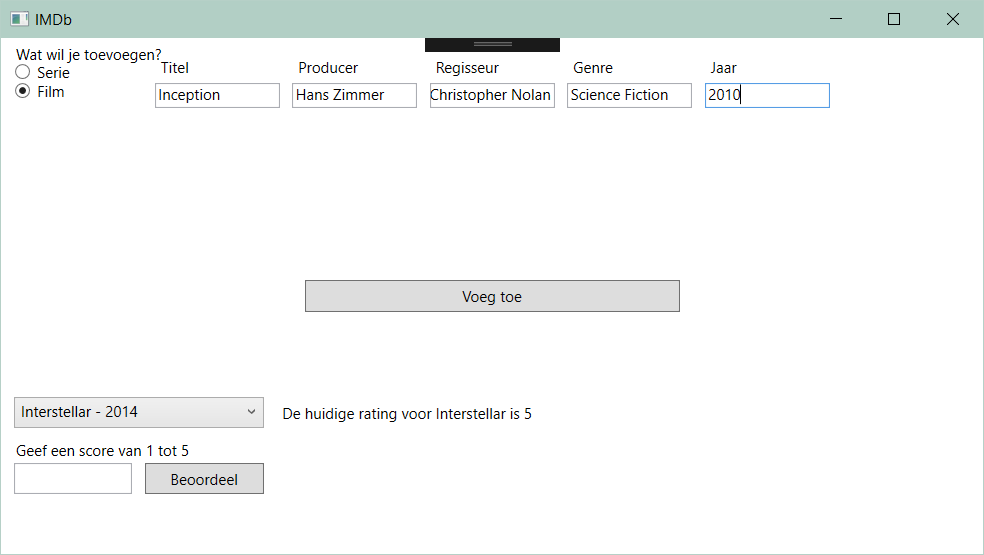
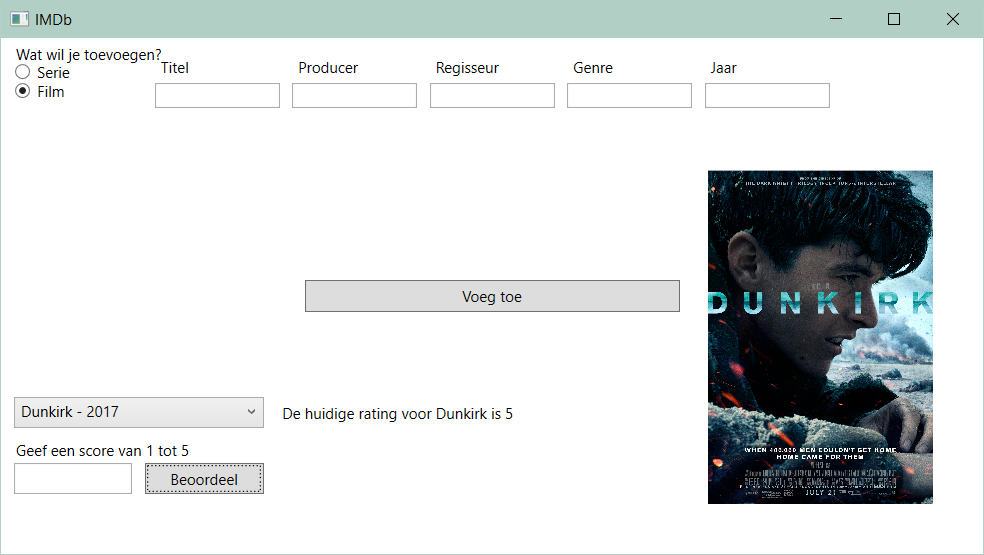
Voeg affiche toe aan WPF-versie oefening 5.3

diff --git a/vakken/oop/les5wpf.md b/vakken/oop/les5wpf.md
@@ -247,160 +247,183 @@ class Bankrekening
             <TextBox Height="25px" Width="95px" Name="textBoxRating"></TextBox>
             <Button Width="95px" Height="25px" Margin="10,0,0,0" Name="buttonVoegRatingToe" Click="ButtonVoegRatingToe_Click">Beoordeel</Button>
         </WrapPanel>
+        <Image Height="320" Width="180" HorizontalAlignment="Right" VerticalAlignment="Bottom" Margin="0,0,40,40" Name="affiche"></Image>
     </Grid>
 </Window>
+
 ```
 ### Klasse MainWindow (MainWindow.xaml.cs)
 ```csharp
 public partial class MainWindow : Window
+{
+    private string rating = "De huidige rating voor {0} is {1}";
+    private List<Film> films;
+    private List<Serie> series;
+    public MainWindow()
     {
-        private List<Film> films;
-        private List<Serie> series;
-        public MainWindow()
-        {
-            InitializeComponent();
-            films = new List<Film>();
-            series = new List<Serie>();
-        }
+        InitializeComponent();
+        films = new List<Film>();
+        series = new List<Serie>();
+    }
 
-        private void CheckedChanged(object sender, RoutedEventArgs e)
+    private void CheckedChanged(object sender, RoutedEventArgs e)
+    {
+        if ((bool)serie.IsChecked)
         {
-            if ((bool)serie.IsChecked)
-            {
-                PanelSerie.Visibility = Visibility.Visible;
-                PanelFilm.Visibility = Visibility.Hidden;
-                SeriesUpdaten();
-            }
-            else
-            {
-                PanelSerie.Visibility = Visibility.Hidden;
-                PanelFilm.Visibility = Visibility.Visible;
-                FilmsUpdaten();
-            }
+            PanelSerie.Visibility = Visibility.Visible;
+            PanelFilm.Visibility = Visibility.Hidden;
+            SeriesUpdaten();
         }
+        else
+        {
+            PanelSerie.Visibility = Visibility.Hidden;
+            PanelFilm.Visibility = Visibility.Visible;
+            FilmsUpdaten();
+        }
+    }
 
-        private void VoegToe(object sender, RoutedEventArgs e)
+    private void VoegToe(object sender, RoutedEventArgs e)
+    {
+        if ((bool)film.IsChecked && IsFilled())
         {
-            if ((bool)film.IsChecked && IsFilled())
-            {
-                films.Add(new Film(textBoxFilmTitel.Text, textBoxFilmProducer.Text, textBoxFilmRegisseur.Text, textBoxFilmGenre.Text, int.Parse(textBoxFilmJaar.Text)));
-                EmptyTextBoxes();
-                FilmsUpdaten();
-            }
-            else if (IsFilled())
-            {
-                series.Add(new Serie(textBoxSerieTitel.Text, int.Parse(textBoxSerieSeizoenen.Text)));
-                EmptyTextBoxes();
-                SeriesUpdaten();
-            }
-            else
-                MessageBox.Show("Niet alle velden zijn gevuld", "Opgelet!", MessageBoxButton.OK);
+            films.Add(new Film(textBoxFilmTitel.Text, textBoxFilmProducer.Text, textBoxFilmRegisseur.Text, textBoxFilmGenre.Text, int.Parse(textBoxFilmJaar.Text)));
+            EmptyTextBoxes();
+            FilmsUpdaten();
         }
+        else if (IsFilled())
+        {
+            series.Add(new Serie(textBoxSerieTitel.Text, int.Parse(textBoxSerieSeizoenen.Text)));
+            EmptyTextBoxes();
+            SeriesUpdaten();
+        }
+        else
+            MessageBox.Show("Niet alle velden zijn gevuld", "Opgelet!", MessageBoxButton.OK);
+    }
 
-        private bool IsFilled()
-        {
-            if ((bool)film.IsChecked)
-                return textBoxFilmGenre.Text.Length != 0 && textBoxFilmJaar.Text.Length != 0 && textBoxFilmProducer.Text.Length != 0 && textBoxFilmRegisseur.Text.Length != 0 && textBoxFilmTitel.Text.Length != 0;
-            else
-                return textBoxSerieSeizoenen.Text.Length != 0 && textBoxSerieTitel.Text.Length != 0;
-        }
-        private void EmptyTextBoxes()
-        {
-            if (PanelSerie.IsVisible)
-                foreach (WrapPanel wrapPanel in PanelSerie.Children.OfType<WrapPanel>())
-                {
-                    foreach (TextBox textBox in wrapPanel.Children.OfType<TextBox>())
-                        textBox.Clear();
-                }
-            else
-                foreach (WrapPanel wrapPanel in PanelFilm.Children.OfType<WrapPanel>())
-                {
-                    foreach (TextBox textBox in wrapPanel.Children.OfType<TextBox>())
-                        textBox.Clear();
-                }
-        }
-        private void SeriesUpdaten()
-        {
-            comboBoxKeuze.ItemsSource = null;
-            comboBoxKeuze.ItemsSource = series;
-        }
-        private void FilmsUpdaten()
-        {
-            comboBoxKeuze.ItemsSource = null;
-            comboBoxKeuze.ItemsSource = films;
-        }
+    private bool IsFilled()
+    {
+        if ((bool)film.IsChecked)
+            return textBoxFilmGenre.Text.Length != 0 && textBoxFilmJaar.Text.Length != 0 && textBoxFilmProducer.Text.Length != 0 && textBoxFilmRegisseur.Text.Length != 0 && textBoxFilmTitel.Text.Length != 0;
+        else
+            return textBoxSerieSeizoenen.Text.Length != 0 && textBoxSerieTitel.Text.Length != 0;
+    }
+    private void EmptyTextBoxes()
+    {
+        if (PanelSerie.IsVisible)
+            foreach (WrapPanel wrapPanel in PanelSerie.Children.OfType<WrapPanel>())
+            {
+                foreach (TextBox textBox in wrapPanel.Children.OfType<TextBox>())
+                    textBox.Clear();
+            }
+        else
+            foreach (WrapPanel wrapPanel in PanelFilm.Children.OfType<WrapPanel>())
+            {
+                foreach (TextBox textBox in wrapPanel.Children.OfType<TextBox>())
+                    textBox.Clear();
+            }
+    }
+    private void SeriesUpdaten()
+    {
+        comboBoxKeuze.ItemsSource = null;
+        comboBoxKeuze.ItemsSource = series;
+    }
+    private void FilmsUpdaten()
+    {
+        comboBoxKeuze.ItemsSource = null;
+        comboBoxKeuze.ItemsSource = films;
+    }
 
-        private void UpdateFilmRating()
+    private void UpdateFilmRating()
+    {
+        Film keuze = (Film)comboBoxKeuze.SelectedItem;
+        try
         {
-            Film keuze = (Film)comboBoxKeuze.SelectedItem;
+            labelRating.Content = string.Format(rating, keuze.Titel, keuze.Rating);
+            ChangeRatingVisibility(Visibility.Visible);
             try
             {
-                labelRating.Content = $"De huidige rating voor {keuze.Titel} is {keuze.Rating}";
-                ChangeRatingVisibility(Visibility.Visible);
+                string result;
+                using (WebClient client = new WebClient())
+                {
+                    result = client.DownloadString("https://sg.media-imdb.com/suggests/" + keuze.Titel.Substring(0, 1).ToLower() + "/" + keuze.Titel + ".json");
+                }
+                result = result.Substring(result.IndexOf("{"), result.Length - result.IndexOf("{") - 1);
+
+                dynamic search = JsonConvert.DeserializeObject(result);
+                string url = search.d[0].i[0];
+                affiche.Source = new BitmapImage(new Uri(url));
             }
-            catch (Exception)
+            catch (System.InvalidOperationException e)
             {
-                ChangeRatingVisibility(Visibility.Hidden);
+                labelRating.Content += "      |      Geen afbeelding gevonden :(";
+            }
+            catch (Exception e)
+            {
+                labelRating.Content += "      |      Er is iets fout gegaan tijdens het ophalen van de afbeelding.";
             }
         }
+        catch (Exception)
+        {
+            ChangeRatingVisibility(Visibility.Hidden);
+        }
+    }
 
-        private void UpdateSerieRating()
+    private void UpdateSerieRating()
+    {
+        Serie keuze = (Serie)comboBoxKeuze.SelectedItem;
+        try
+        {
+            labelRating.Content = string.Format(rating, keuze.Titel, keuze.Rating);
+            ChangeRatingVisibility(Visibility.Visible);
+        }
+        catch (Exception)
+        {
+            ChangeRatingVisibility(Visibility.Hidden);
+        }
+    }
+    /// <summary>
+    /// Verander de zichtbaarheid van alle controls die te maken hebben met het toevoegen van een Rating.
+    /// </summary>
+    /// <param name="visibility">Visibility.Visible voor zichtbaar, Visibility.Hidden voor onzichtbaar</param>
+    private void ChangeRatingVisibility(Visibility visibility)
+    {
+        labelRating.Visibility = visibility;
+        labelNieuweRating.Visibility = visibility;
+        buttonVoegRatingToe.Visibility = visibility;
+        textBoxRating.Visibility = visibility;
+        panelRating.Visibility = visibility;
+    }
+
+    private void ComboBoxKeuze_SelectionChanged(object sender, SelectionChangedEventArgs e)
+    {
+        if ((bool)serie.IsChecked)
+            UpdateSerieRating();
+        else
+            UpdateFilmRating();
+    }
+
+    private void ButtonVoegRatingToe_Click(object sender, RoutedEventArgs e)
+    {
+        if ((bool)film.IsChecked)
+        {
+            Film keuze = (Film)comboBoxKeuze.SelectedItem;
+            keuze.VoegRatingToe(double.Parse(textBoxRating.Text));
+            textBoxRating.Clear();
+            labelRating.Content = $"De huidige rating voor {keuze.Titel} is {keuze.Rating}";
+        }
+        else
         {
             Serie keuze = (Serie)comboBoxKeuze.SelectedItem;
             try
             {
-                labelRating.Content = $"De huidige rating voor {keuze.Titel} is {keuze.Rating}";
-                ChangeRatingVisibility(Visibility.Visible);
-            }
-            catch (Exception)
-            {
-                ChangeRatingVisibility(Visibility.Hidden);
-            }
-        }
-        /// <summary>
-        /// Verander de zichtbaarheid van alle controls die te maken hebben met het toevoegen van een Rating.
-        /// </summary>
-        /// <param name="visibility">Visibility.Visible voor zichtbaar, Visibility.Hidden voor onzichtbaar</param>
-        private void ChangeRatingVisibility(Visibility visibility)
-        {
-            labelRating.Visibility = visibility;
-            labelNieuweRating.Visibility = visibility;
-            buttonVoegRatingToe.Visibility = visibility;
-            textBoxRating.Visibility = visibility;
-            panelRating.Visibility = visibility;
-        }
-
-        private void ComboBoxKeuze_SelectionChanged(object sender, SelectionChangedEventArgs e)
-        {
-            if ((bool)serie.IsChecked)
-                UpdateSerieRating();
-            else
-                UpdateFilmRating();
-        }
-
-        private void ButtonVoegRatingToe_Click(object sender, RoutedEventArgs e)
-        {
-            if ((bool)film.IsChecked)
-            {
-                Film keuze = (Film)comboBoxKeuze.SelectedItem;
                 keuze.VoegRatingToe(double.Parse(textBoxRating.Text));
-                textBoxRating.Clear();
-                labelRating.Content = $"De huidige rating voor {keuze.Titel} is {keuze.Rating}";
             }
-            else
+            catch (System.FormatException)
             {
-                Serie keuze = (Serie)comboBoxKeuze.SelectedItem;
-                try
-                {
-                    keuze.VoegRatingToe(double.Parse(textBoxRating.Text));
-                }
-                catch (System.FormatException)
-                {
-                    MessageBox.Show("Kijk invoer na", "Ej!", MessageBoxButton.OK);
-                }
-                textBoxRating.Clear();
-                labelRating.Content = $"De huidige rating voor {keuze.Titel} is {keuze.Rating}";
+                MessageBox.Show("Kijk invoer na", "Ej!", MessageBoxButton.OK);
             }
+            textBoxRating.Clear();
+            labelRating.Content = $"De huidige rating voor {keuze.Titel} is {keuze.Rating}";
         }
     }
 ```
